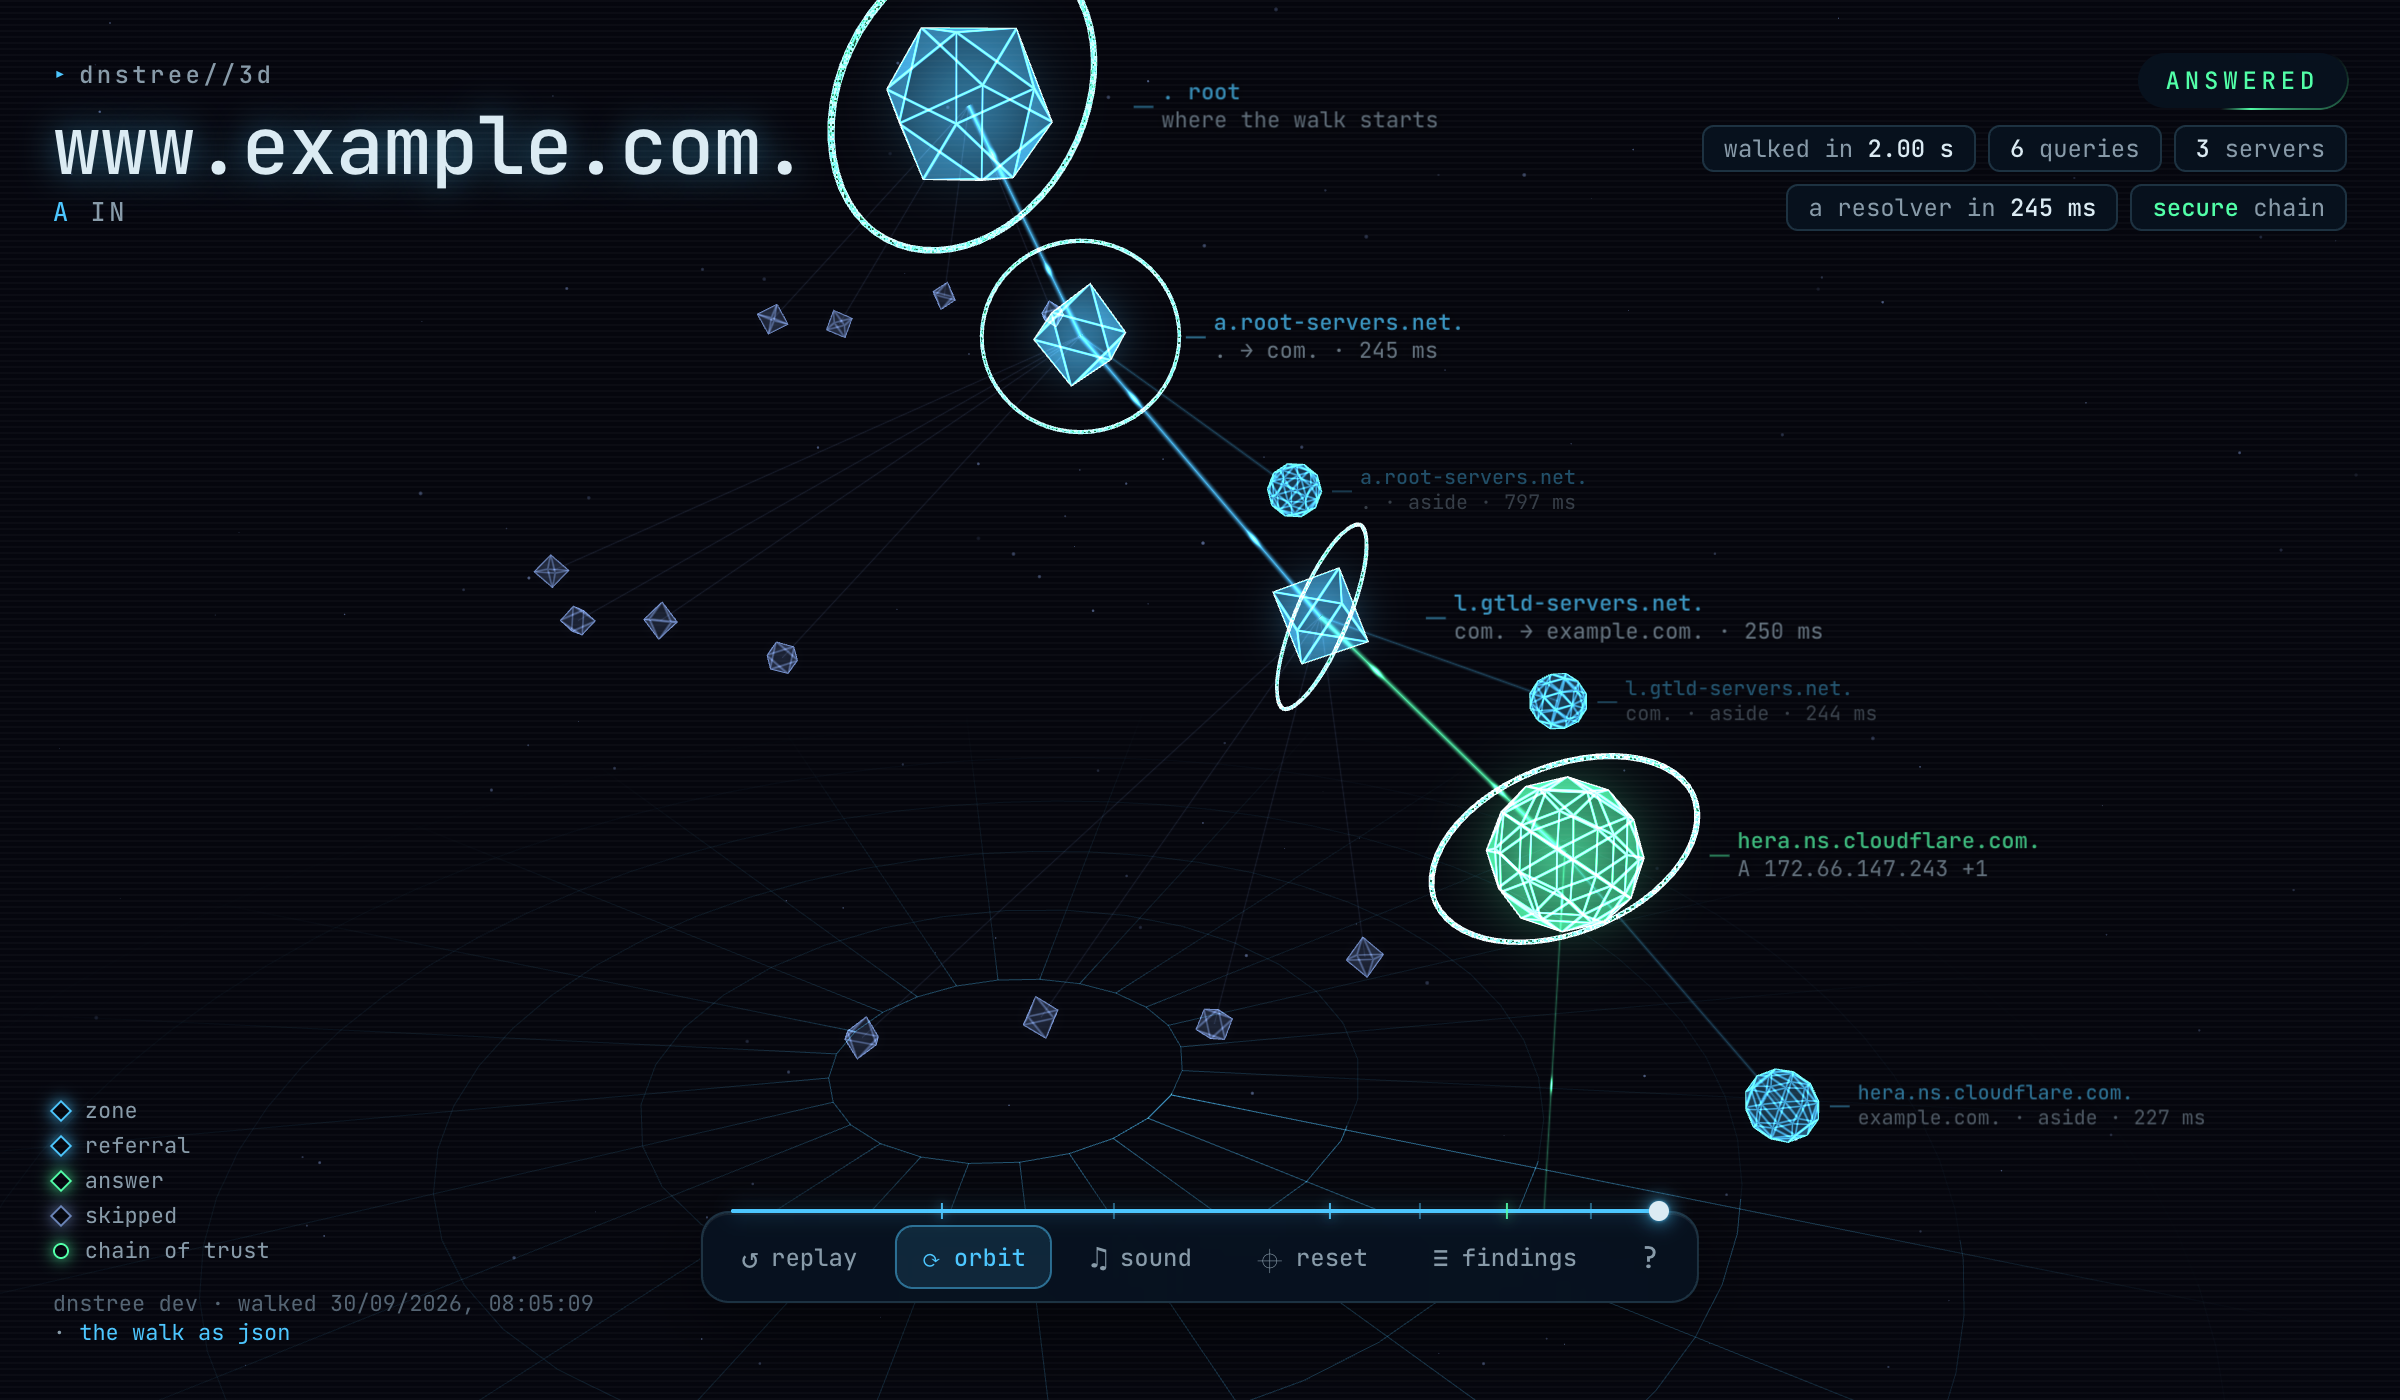
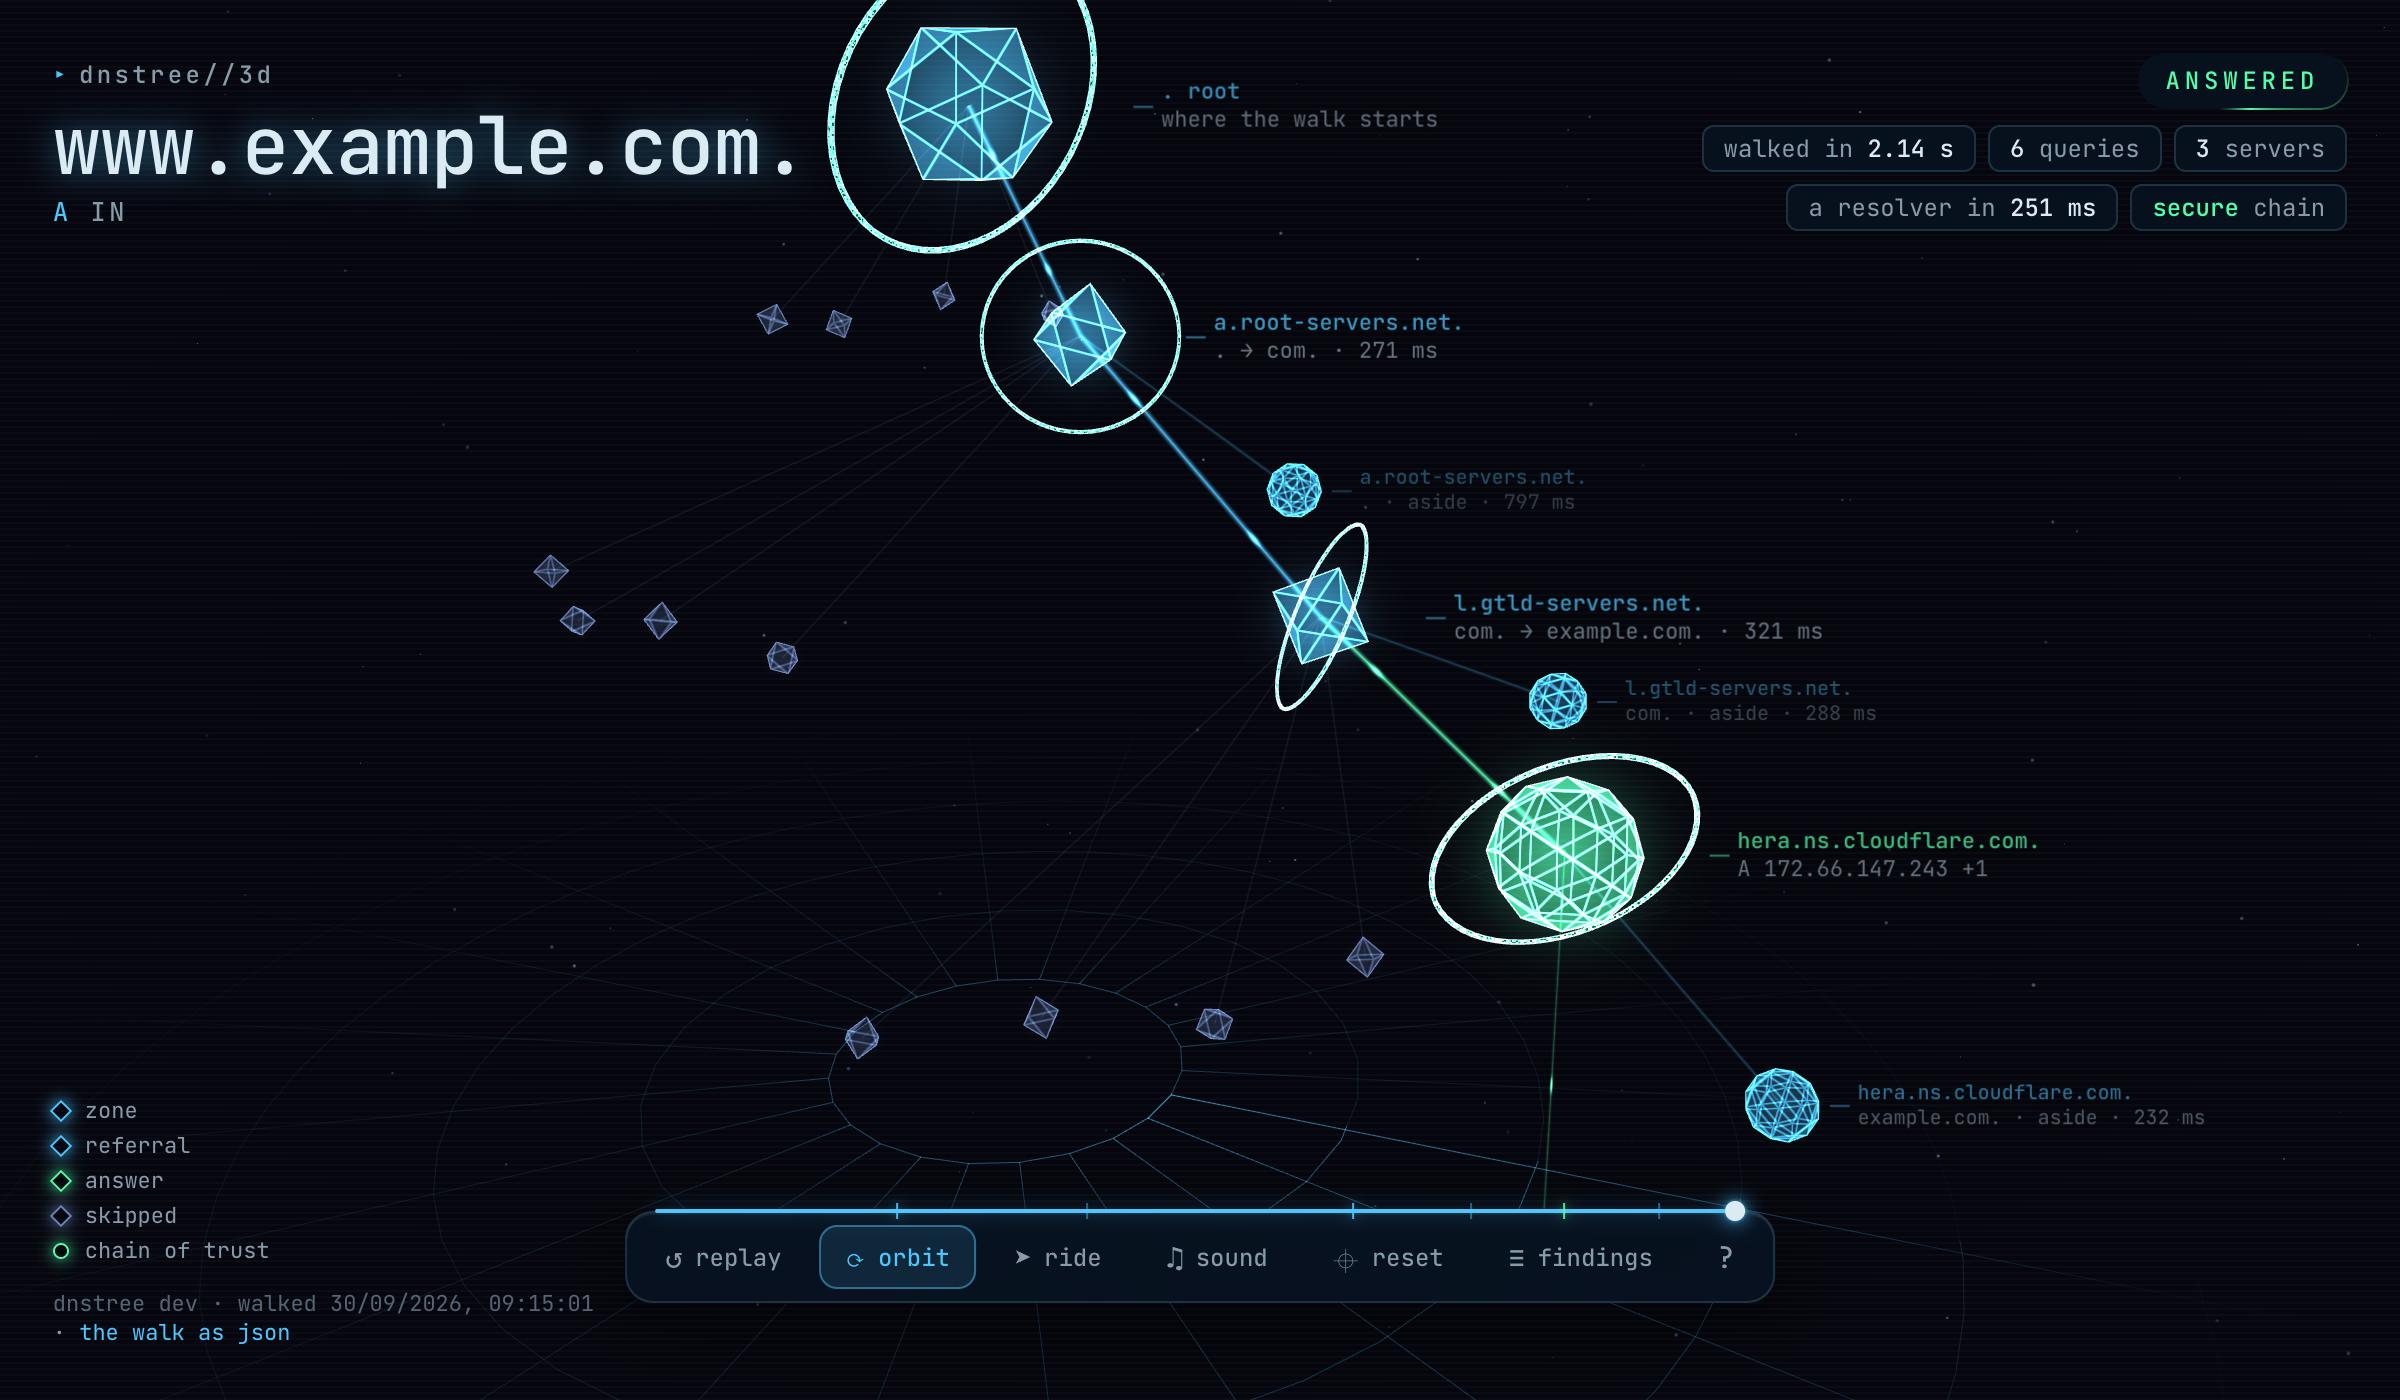
feat: Ride the question down to the answer in web-3d
f, or the ride button, puts the camera behind the packet on the way to
the answer and circles the answer at the end. Dragging the scene or
picking a hop hands the camera back; the scrubber flies it along.

diff --git a/internal/render/web/assets/scene/scene.js b/internal/render/web/assets/scene/scene.js
@@ -6,9 +6,10 @@
 import {
   TONES, KINDS, kindOf, trustTone, took, clamp, flatten, asked, resultOf, verdictOf, chainState,
   layout, drift, schedule, titleOf, subtitleOf, factsOf, declutter, stepFrom, leaks,
+  trailOf, rideAt, behind, around,
 } from "./walk.js";
 import { STRIDE, nodesOf, wiresOf } from "./pack.js";
-import { SHAPES, sub, add, scale, cross, norm, perspective, lookAt, multiply, project } from "./space.js";
+import { SHAPES, sub, add, scale, cross, norm, mix, perspective, lookAt, multiply, project } from "./space.js";
 
 const toCss = ([r, g, b]) => `rgb(${Math.round(r * 255)} ${Math.round(g * 255)} ${Math.round(b * 255)})`;
 for (const [name, rgb] of Object.entries(TONES)) {
@@ -832,7 +833,7 @@ function marks() {
   })));
 }
 
-// Notes already behind the replay are not played again, and the camera leans
+// Sounds already behind the replay are not played again, and the camera leans
 // towards whichever hop the replay is at.
 function wind(to) {
   replay.at = clamp(to, 0, replay.end);
@@ -876,6 +877,10 @@ function eyeOf() {
 }
 
 function step(dt, now) {
+  if (ride.on) {
+    rideAlong(dt, now);
+    return;
+  }
   const ease = 1 - Math.exp(-dt * 4);
   const idle = now - lastInput > 3;
 
@@ -906,6 +911,7 @@ function step(dt, now) {
 }
 
 function reset() {
+  riding(false);
   goal.dist = home.dist = fitFor(innerWidth / innerHeight);
   goal.target = [...home.target];
   // Back the short way round.
@@ -913,6 +919,40 @@ function reset() {
   goal.yaw = home.yaw + turns * Math.PI * 2;
   goal.pitch = home.pitch;
   pick(null);
+}
+
+/* ── riding along ──────────────────────────────────────────────────────── */
+
+// The camera can ride the question down the bright trail, behind it and a
+// little above, dipping into each cut as it reaches one and going slowly
+// round the answer at the end. Taking hold of the scene hands it back.
+const trail = trailOf(result);
+const ride = { on: false, turn: 0 };
+
+function riding(on) {
+  on = on && motion > 0 && trail.length > 0;
+  if (on === ride.on) return;
+  ride.on = on;
+  controls.ride.setAttribute("aria-pressed", String(on));
+  if (!on) return;
+  pick(null);
+  follow = null;
+  spin.yaw = spin.pitch = 0;
+  goal.yaw = goal.pitch = null;
+  goal.dist = 7;
+  ride.turn = 0;
+  if (replay.at >= replay.end) play();
+}
+
+function rideAlong(dt, now) {
+  const at = rideAt(trail, replay.at, now, motion);
+  ride.turn = at.done ? ride.turn + dt * 0.15 : 0;
+  const ease = 1 - Math.exp(-dt * 2.2);
+  camera.yaw += around(behind(at.heading) + ride.turn - camera.yaw) * ease;
+  camera.pitch += (0.42 - 0.14 * Math.exp(-at.since * 3) - camera.pitch) * ease;
+  camera.dist += (goal.dist - camera.dist) * ease;
+  camera.target = mix(camera.target, mix(at.at, at.ahead, 0.25), 1 - Math.exp(-dt * 5));
+  goal.target = [...camera.target];
 }
 
 function focus(hop) {
@@ -952,6 +992,7 @@ function pick(hop, { quiet = false } = {}) {
   state.picked?.tag.classList.remove("picked");
   state.picked = hop;
   hop?.tag.classList.add("picked");
+  if (hop) riding(false);
   inspect(hop);
   upload();
   if (hop) {
@@ -1006,6 +1047,9 @@ canvas.addEventListener("pointermove", (event) => {
     pressed.spread = spread;
     return;
   }
+  // Turning or moving the scene takes the camera back; a click, or a pinch
+  // that only zooms as the wheel does, leaves the ride going.
+  if (pressed.moved >= 6) riding(false);
   if (pressed.pan) {
     const eye = eyeOf();
     const forward = norm(sub(camera.target, eye));
@@ -1042,8 +1086,10 @@ canvas.addEventListener("wheel", (event) => {
 }, { passive: false });
 
 const controls = {
-  replay: $("c-replay"), orbit: $("c-orbit"), sound: $("c-sound"), reset: $("c-reset"), findings: $("c-findings"),
+  replay: $("c-replay"), orbit: $("c-orbit"), ride: $("c-ride"), sound: $("c-sound"), reset: $("c-reset"),
+  findings: $("c-findings"),
 };
+controls.ride.hidden = !motion || !trail.length;
 // A click leaves the focus where it was, so that the keys go on meaning what
 // they say rather than pressing the button last clicked.
 for (const button of document.querySelectorAll(".dock button")) {
@@ -1056,6 +1102,10 @@ controls.orbit.addEventListener("click", () => {
   controls.orbit.setAttribute("aria-pressed", String(orbiting));
 });
 controls.orbit.setAttribute("aria-pressed", String(orbiting));
+controls.ride.addEventListener("click", () => {
+  if (ride.on) reset();
+  else riding(true);
+});
 controls.sound.addEventListener("click", async () => {
   try {
     const on = await sound.toggle(result?.pos);
@@ -1100,6 +1150,7 @@ addEventListener("keydown", (event) => {
     k: () => stepThrough(-1),
     " ": () => play(),
     o: () => controls.orbit.click(),
+    f: () => !controls.ride.hidden && controls.ride.click(),
     m: () => controls.sound.click(),
     r: () => reset(),
     e: () => !controls.findings.hidden && controls.findings.click(),
@@ -1113,12 +1164,17 @@ addEventListener("keydown", (event) => {
   if (!act) return;
   event.preventDefault();
   lastInput = clock();
+  if (event.key.startsWith("Arrow")) riding(false);
   act();
 });
 
 reduced.addEventListener("change", () => {
   motion = reduced.matches ? 0 : 1;
-  if (!motion) wind(replay.end);
+  if (!motion) {
+    if (ride.on) reset();
+    play();
+  }
+  controls.ride.hidden = !motion || !trail.length;
   orbiting = orbiting && !reduced.matches;
   controls.orbit.setAttribute("aria-pressed", String(orbiting));
 });

diff --git a/internal/render/web/assets/scene/walk.js b/internal/render/web/assets/scene/walk.js
@@ -206,6 +206,44 @@ export function schedule(hops) {
   }
 }
 
+/* ── riding along ──────────────────────────────────────────────────────── */
+
+// The way from the root to where the walk ended, root first, which is what
+// the camera rides down. Empty when the walk came to nothing.
+export function trailOf(result) {
+  const trail = [];
+  for (let hop = result; hop; hop = hop.parent) trail.unshift(hop);
+  return trail.length > 1 ? trail : [];
+}
+
+// Where the question is on the trail at a moment of the replay: gliding
+// between two hops the way its packet does, or waiting at the last it reached.
+// heading is the way it is going, flat, and since how long ago it last reached
+// a hop, for the camera to lean into the cut.
+export function rideAt(trail, t, time, motion) {
+  let i = 1;
+  while (i < trail.length - 1 && trail[i].at <= t) i++;
+  const from = trail[i - 1];
+  const to = trail[i];
+  const k = clamp((t - to.leave) / to.travel, 0, 1);
+  const e = k * k * (3 - 2 * k);
+  const a = drift(from.pos, from.phase, time, motion);
+  const b = drift(to.pos, to.phase, time, motion);
+  return {
+    at: a.map((v, n) => v + (b[n] - v) * e),
+    ahead: b,
+    heading: [to.pos[0] - from.pos[0], 0, to.pos[2] - from.pos[2]],
+    since: Math.max(0, t - (k >= 1 ? to.at : from.at)),
+    done: t >= to.at && i === trail.length - 1,
+  };
+}
+
+// The yaw that puts the camera behind something going this way.
+export const behind = ([x, , z]) => Math.atan2(-x, -z);
+
+// An angle brought into (-π, π], so the camera turns the short way round.
+export const around = (a) => Math.atan2(Math.sin(a), Math.cos(a));
+
 /* ── what a hop is called ──────────────────────────────────────────────── */
 
 export function titleOf(step) {

diff --git a/internal/render/web/assets/scene/index.html b/internal/render/web/assets/scene/index.html
@@ -57,6 +57,7 @@
   </div>
   <button class="key" type="button" id="c-replay" title="replay the walk (space)"><span class="glyph">&#8634;</span><span>replay</span></button>
   <button class="key" type="button" id="c-orbit" aria-pressed="true" title="turn on its own (o)"><span class="glyph">&#10227;</span><span>orbit</span></button>
+  <button class="key" type="button" id="c-ride" aria-pressed="false" title="ride along with the question (f)" hidden><span class="glyph">&#10148;</span><span>ride</span></button>
   <button class="key" type="button" id="c-sound" aria-pressed="false" title="sound (m)"><span class="glyph">&#9835;</span><span>sound</span></button>
   <button class="key" type="button" id="c-reset" title="back to where it started (r)"><span class="glyph">&#8982;</span><span>reset</span></button>
   <button class="key" type="button" id="c-findings" aria-pressed="false" title="what the walk came to (e)" hidden><span class="glyph">&#8801;</span><span>findings</span></button>
@@ -80,6 +81,7 @@
     <dt><kbd>space</kbd></dt><dd>replay the walk</dd>
     <dt>the line over the controls</dt><dd>hold the replay, or wind it back</dd>
     <dt><kbd>o</kbd></dt><dd>let it turn on its own</dd>
+    <dt><kbd>f</kbd></dt><dd>ride along with the question, down to the answer</dd>
     <dt><kbd>m</kbd></dt><dd>sound</dd>
     <dt><kbd>r</kbd></dt><dd>back to where it started</dd>
     <dt><kbd>esc</kbd></dt><dd>close whatever is open</dd>

diff --git a/docs/guide/output.md b/docs/guide/output.md
@@ -322,10 +322,12 @@ the chain of trust at that cut, and the brighter trail is the way to the answer;
 clicking a hop says what the server said. Queries the walk had out at once are
 in flight at once, and the line over the controls holds the replay or winds it
 back. A name left pointing at nothing hangs a snapped thread, and a server that
-hands its zone or its recursion to strangers throws off sparks. Sound is off until asked for, and is
-placed where the hops are, so that turning the scene turns it too. It is WebGL2
-and nothing else: a browser without it is pointed back at `--format web`, and
-one asking for reduced motion gets the walk already assembled and standing still.
+hands its zone or its recursion to strangers throws off sparks. `f` rides along
+with the question, from the root down to the answer. Sound is off until asked
+for, and is placed where the hops are, so that turning the scene turns it too.
+It is WebGL2 and nothing else: a browser without it is pointed back at
+`--format web`, and one asking for reduced motion gets the walk already
+assembled and standing still.
 
 ![dnstree --format web-3d on www.example.com: the hops in a cone from the root down, the chain of trust ringed round each cut and the answer lit green](../demo-3d.png)
 
